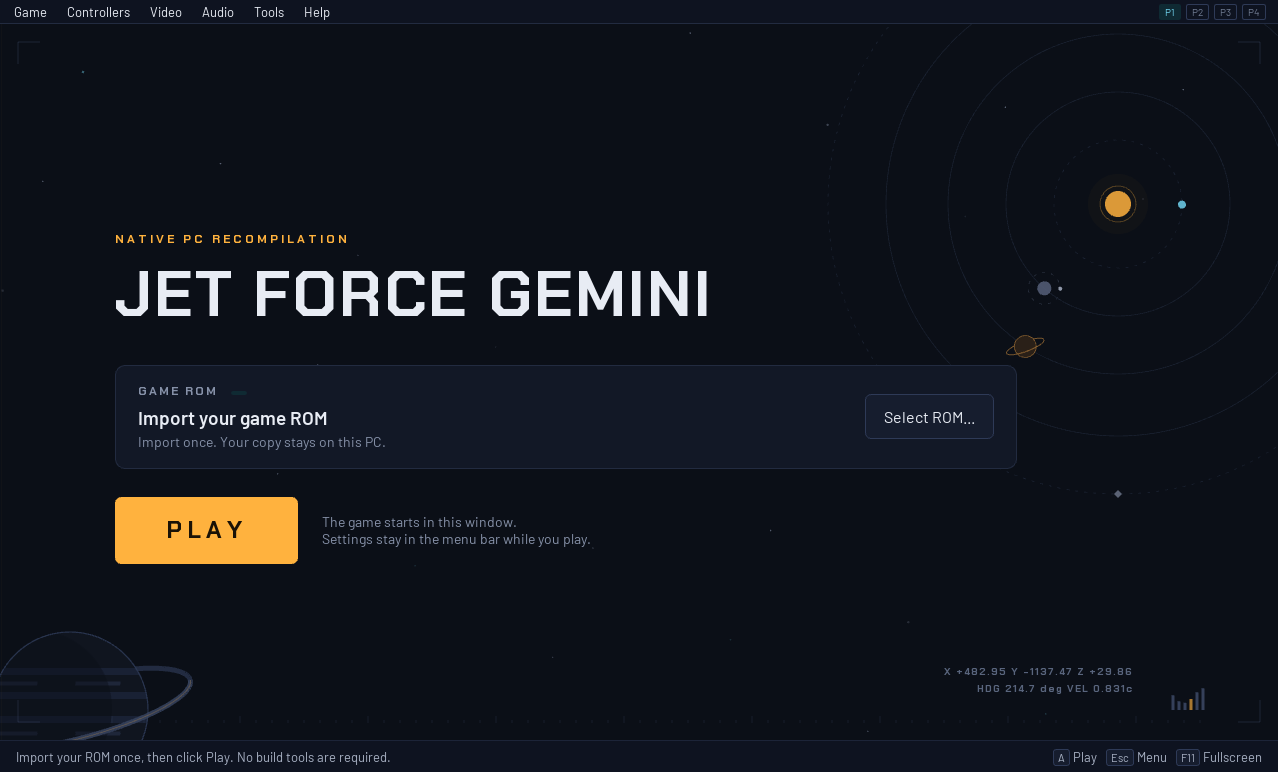
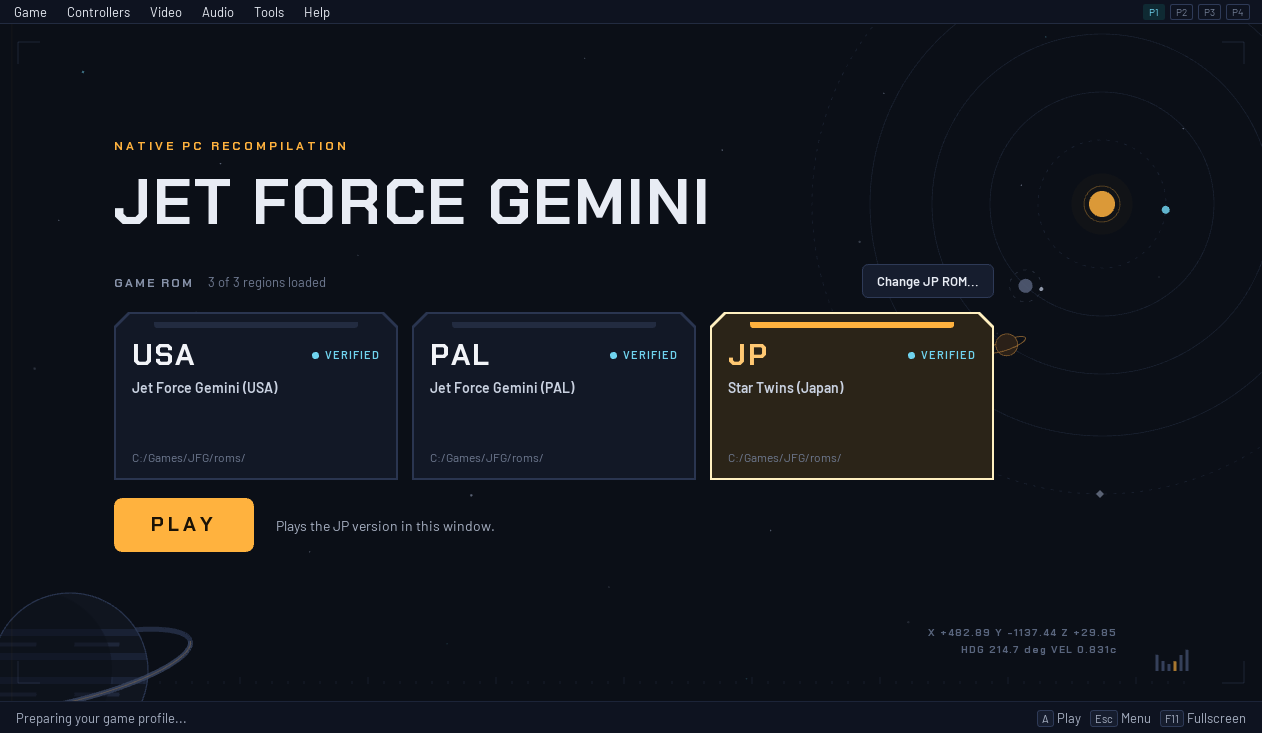
docs: show the current three-region launcher in README

diff --git a/README.md b/README.md
@@ -7,8 +7,8 @@ original ROM versions: USA, PAL (Europe), and Japan (Star Twins), including the 
 language options provided by each ROM.** Import your ROM, select its cartridge in the launcher,
 and click **Play**. The selected ROM is remembered between sessions.
 
-Prebuilt packages require no developer tools or first-run compilation. The currently published
-v1.4.0 package supports the US ROM; use a 1.5.0 build for PAL and Japanese support.
+The 1.5.0 package includes one launcher and all three regional runtimes. No developer tools
+or first-run compilation are required. Keep the complete extracted package together.
 See [1.5.0 qualification and publication status](docs/releases/qualification-1.5.0.md).
 
 [Get started](docs/getting-started.md) | [Documentation](docs/README.md) | [Project status](docs/status.md) |
@@ -20,13 +20,13 @@ Written with the help of **AI: Codex GPT 6 Astra**, with human direction, review
 
 1. Download the **Windows x64 ZIP** from the [latest stable release](https://github.com/TK22-26/JetForceGemini-Recomp/releases/latest).
 2. Extract the entire ZIP and open `JFG-Launcher.exe`.
-3. In a 1.5.0 build, import your supported USA, PAL or Japanese ROM, select its cartridge, then click **Play**. The older v1.4.0 package accepts the US ROM only.
+3. Import your supported USA, PAL or Japanese ROM, select its cartridge, then click **Play**.
 
 The launcher verifies the ROM and keeps a private local copy; the original file is no longer needed
 after import. Existing profile saves remain available. Keep the imported copy: it supplies game assets.
 See [requirements, updates and portable storage](docs/getting-started.md).
 
-![Launcher startup screen](docs/images/startup-screen.png)
+![Launcher with USA, PAL and Japanese ROM selection](docs/images/startup-screen.png)
 
 The installation approach is inspired by the **Zelda64Recomp team** and its
 [plug-and-play distribution model](https://github.com/Zelda64Recomp/Zelda64Recomp#plug-and-play).
